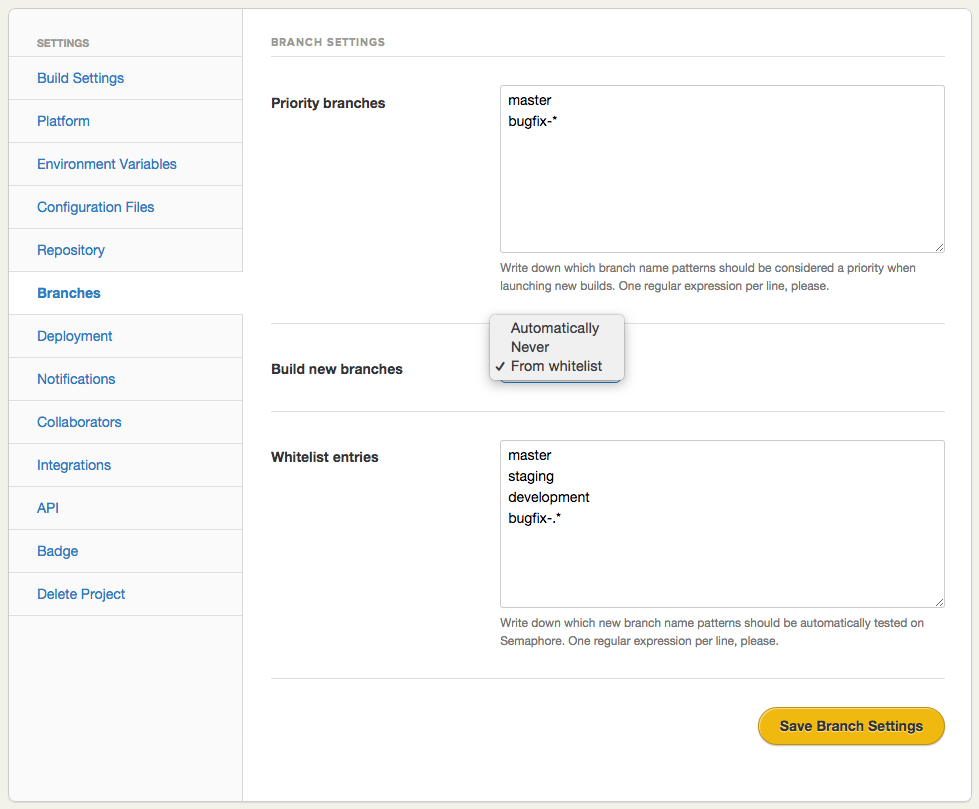
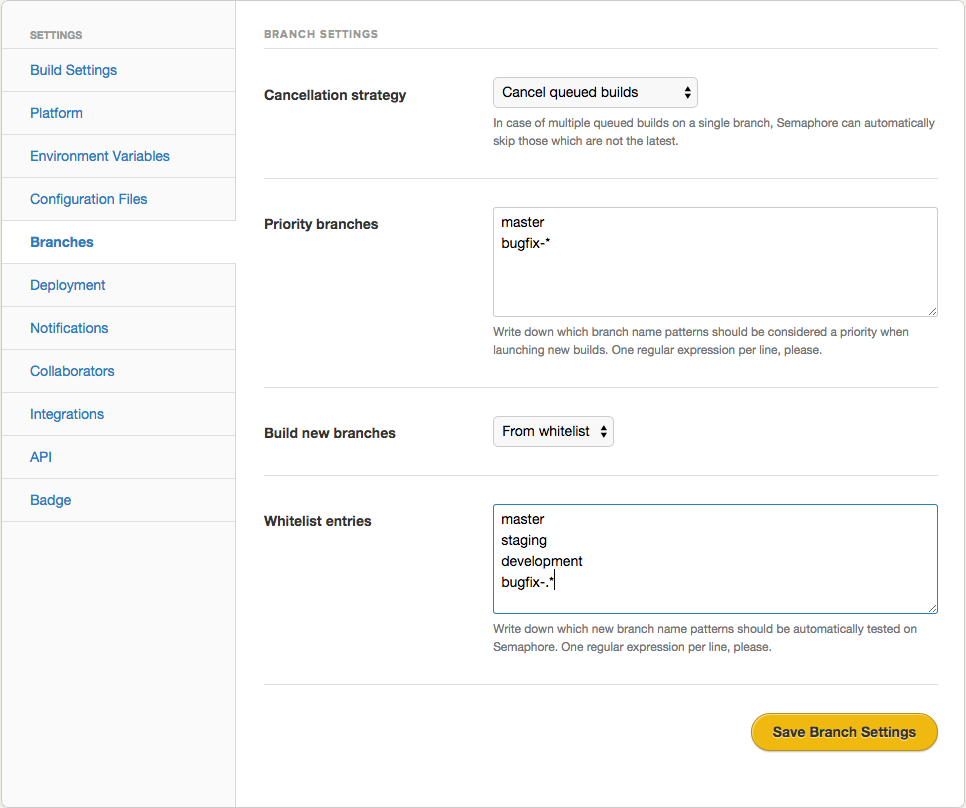
Cancel queued builds docs

diff --git a/source/docs/set-queued-builds-cancellation-strategy.md b/source/docs/set-queued-builds-cancellation-strategy.md
@@ -1,0 +1,21 @@
+---
+layout: post
+title: Set queued builds cancellation strategy
+category: Customizing your build
+---
+
+Semaphore supports 2 cancellation strategies for queued builds on a single branch 
+- default and cancel queued builds.
+
+With *default strategy*, Semaphore will build every push to the code repository
+as they arrive to Semaphore. If you push few times to a single branch in a short
+time span, builds will be queued and built in order.
+
+With *cancel queued builds strategy*, if you push few times to a branch you
+don't have to wait for all builds to complete to get the build results of the
+last code version. Instead, queued builds will be cancelled and only the most
+recent version of the code will be tested.
+
+You’ll find the screen to configure this in your project settings, Branches tab.
+
+<img src="/docs/assets/img/settings/settings-branches.png" class="img-responsive">
